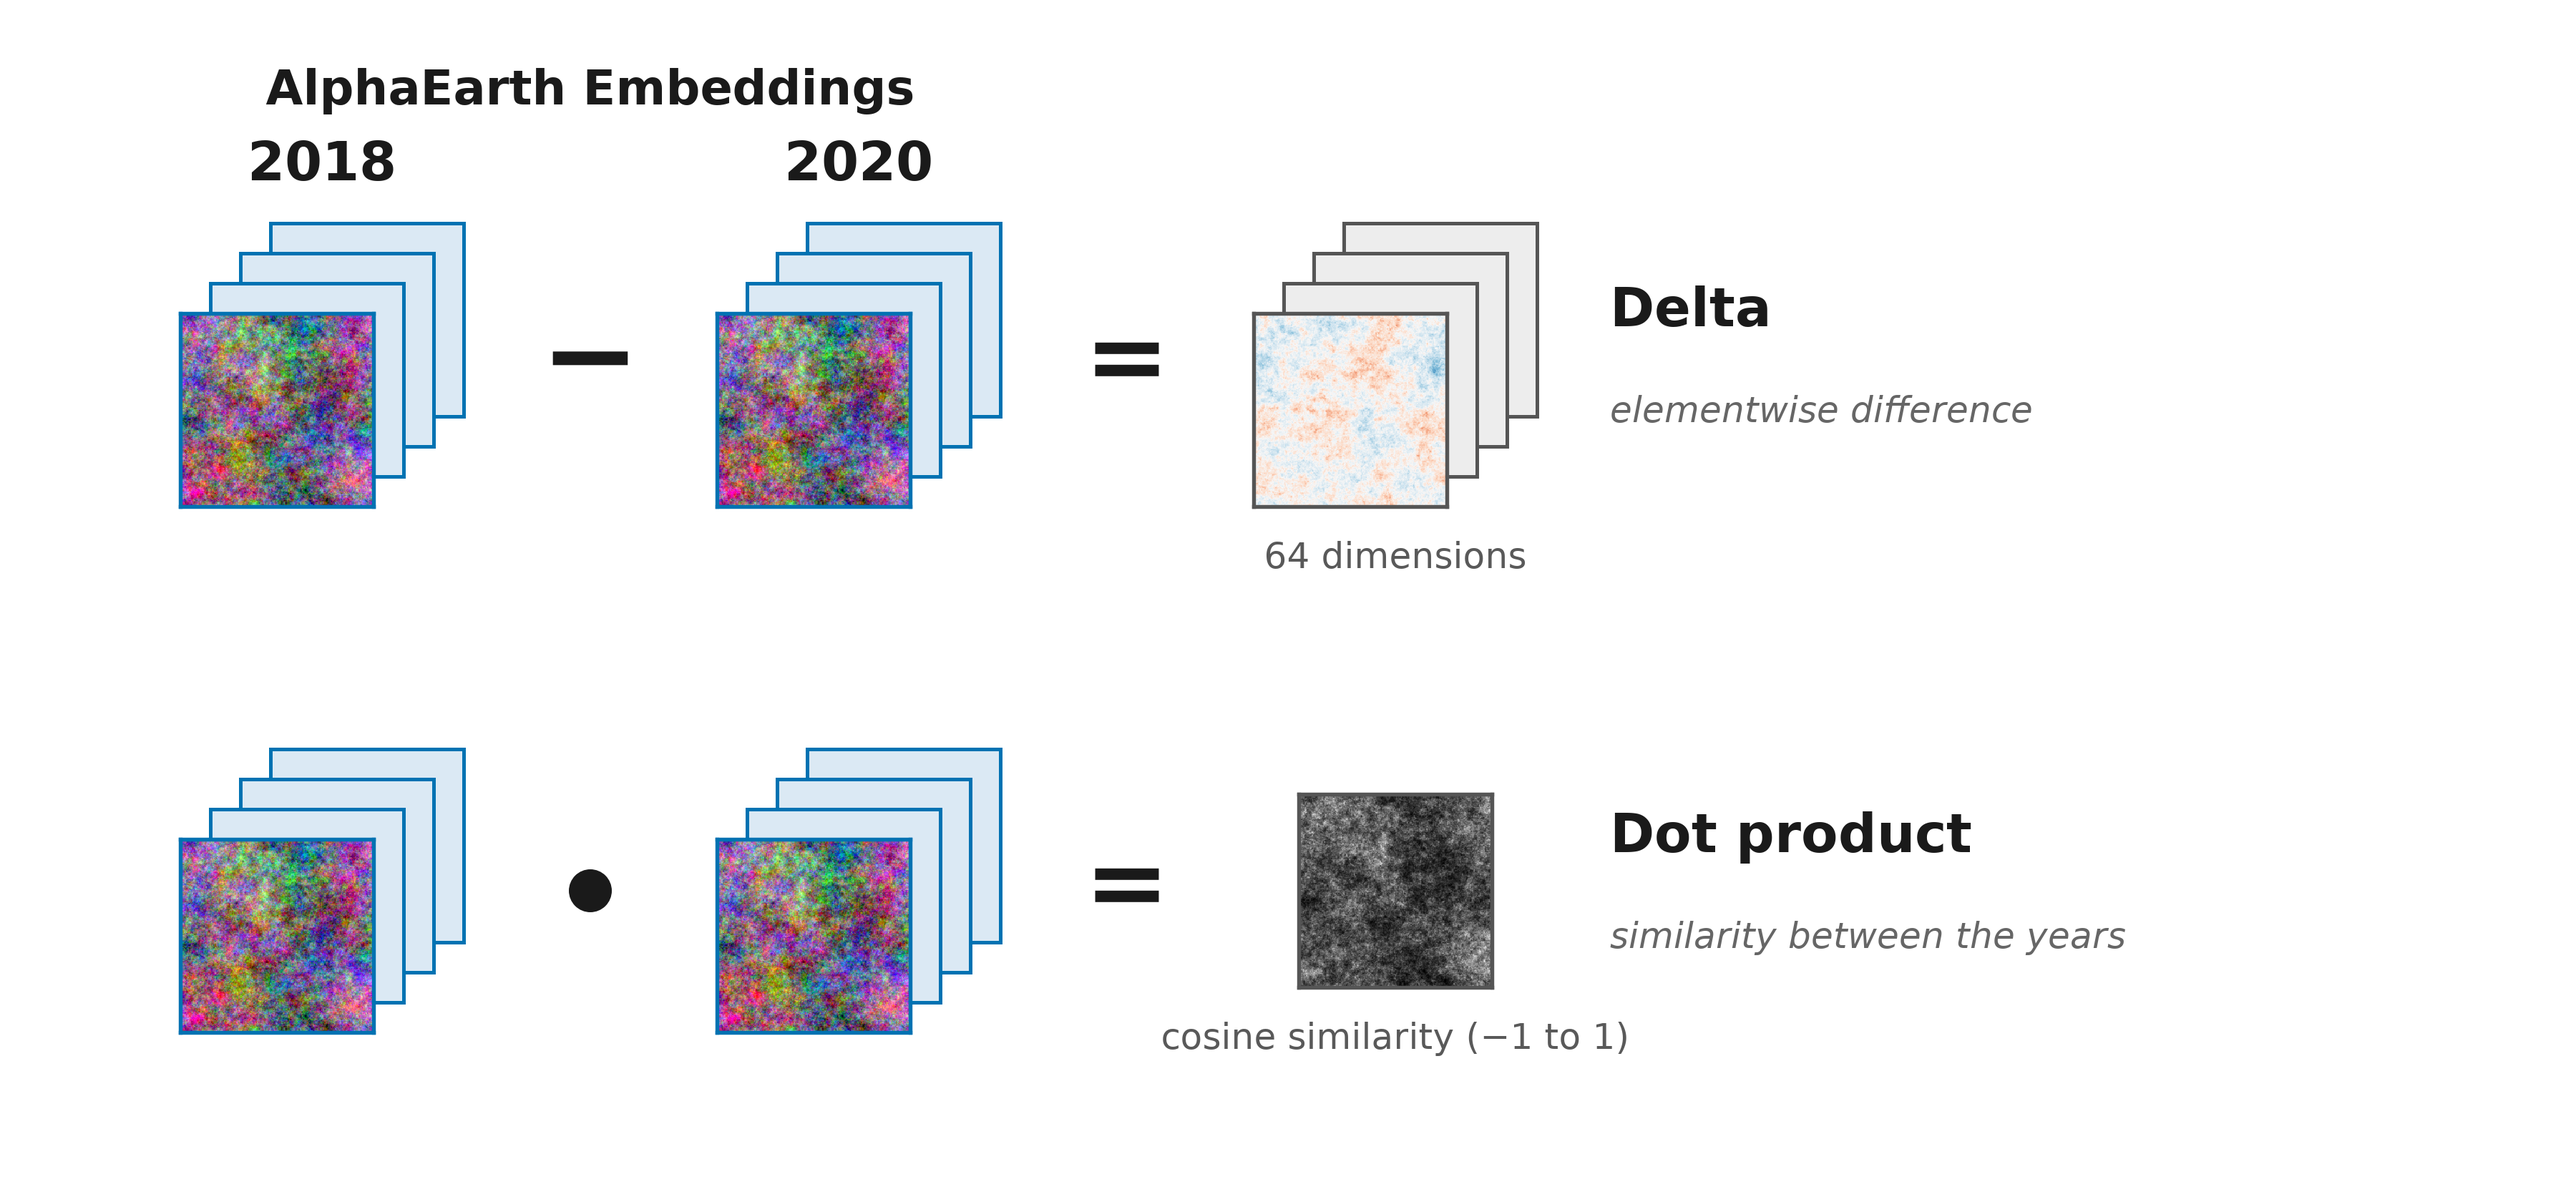
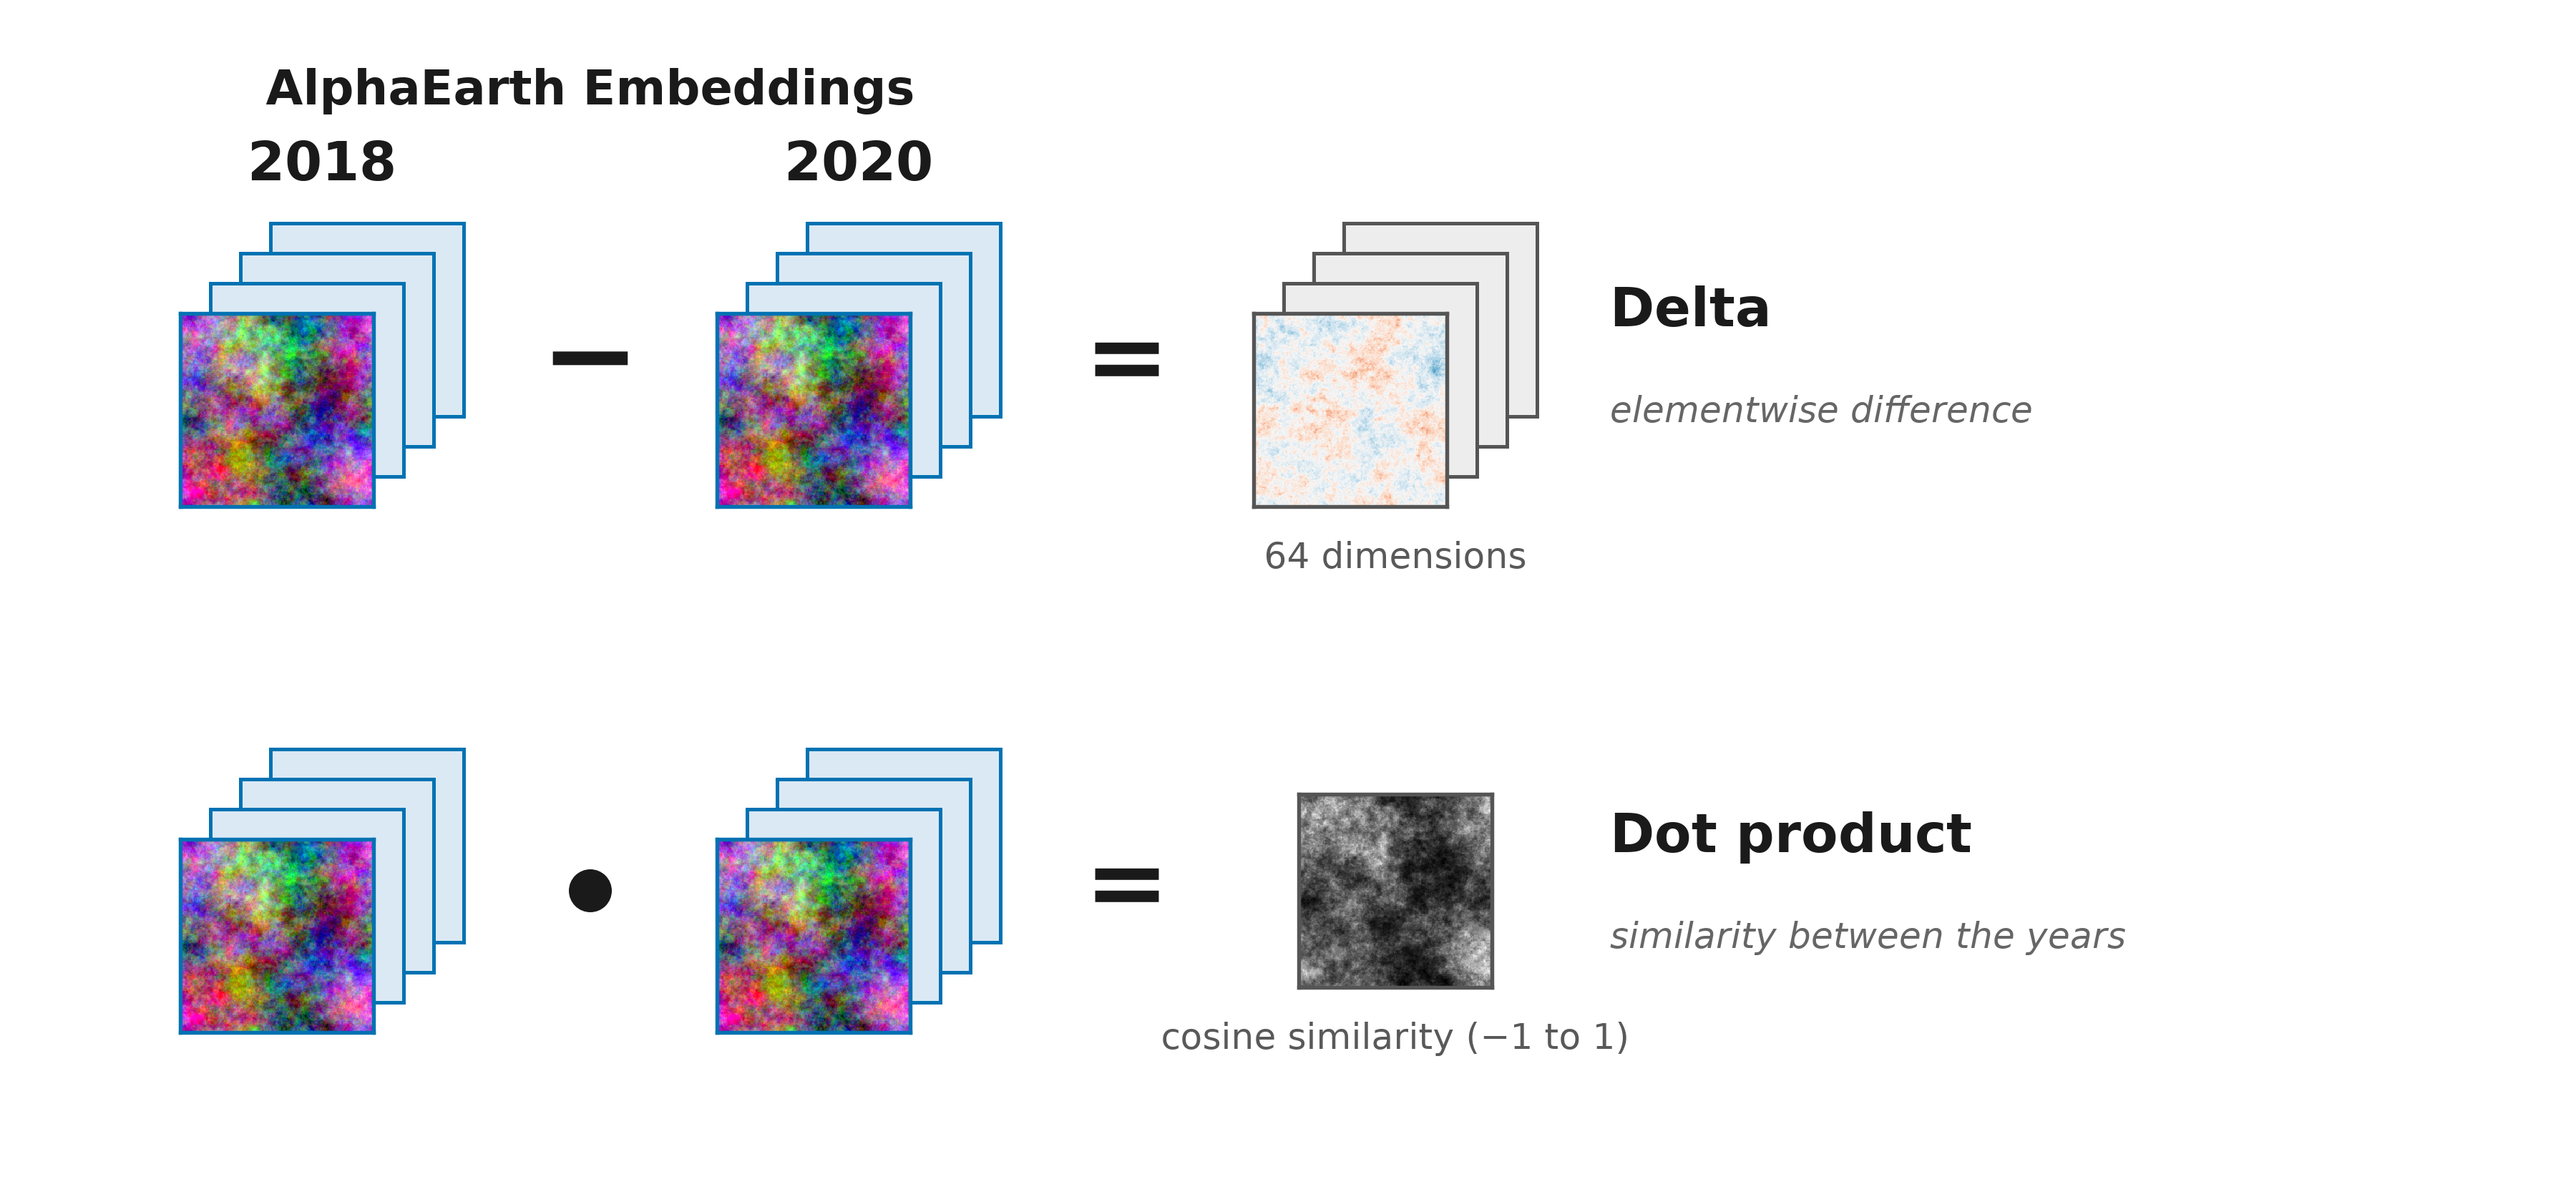
pres_15 v4: more continuous embeddings (lower-frequency noise)
Shift the embedding texture spectrum toward lower frequencies so it reads as
continuous organic regions instead of fine pixelated static.

diff --git a/presentation/scripts/pres_15_embedding_ops_version_4.py b/presentation/scripts/pres_15_embedding_ops_version_4.py
@@ -59,8 +59,8 @@ def _textures():
         return (img - img.min()) / (np.ptp(img) + 1e-9)
 
     def emb():                                                     # colorful organic terrain, no blocky parcels
-        base = np.stack([fnoise(2.0) for _ in range(3)], -1)
-        return np.clip((base - 0.5) * 1.5 + 0.5, 0, 1)
+        base = np.stack([fnoise(2.6) for _ in range(3)], -1)       # more low-frequency -> more continuous
+        return np.clip((base - 0.5) * 1.6 + 0.5, 0, 1)
 
     e18 = emb()
     change = np.stack([fnoise(2.3) for _ in range(3)], -1) - 0.5    # smooth organic year-to-year change
